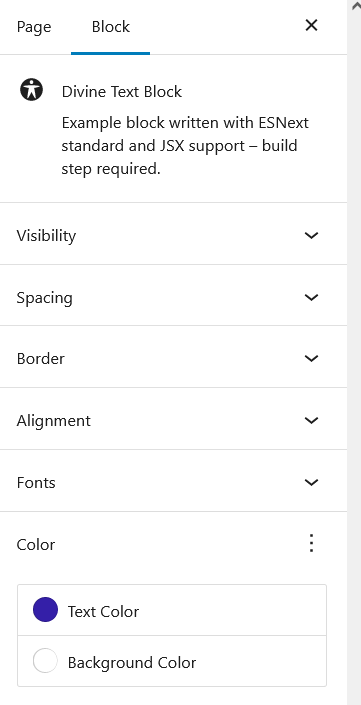
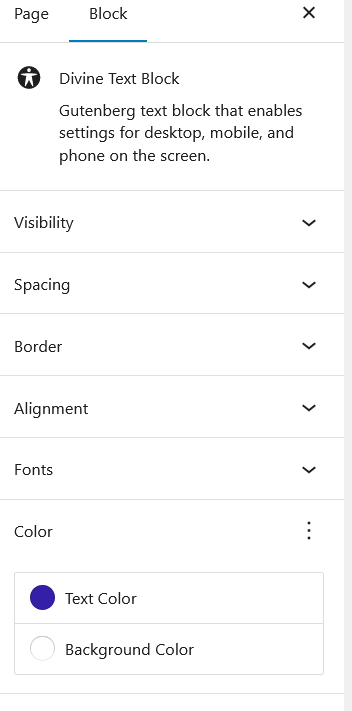
updated names, added screen shots
Updated description, author, names, added category for block

diff --git a/src/components/textBlock/index.js b/src/components/textBlock/index.js
@@ -76,17 +76,16 @@ registerBlockType("create-block/divinetextblock", {
       type: "array",
       default: ["left", "left", "left"],
     },
-	  OpacityStatus:{
-			type: "array",
-			default:[1,1,1]
-
-		},
+    OpacityStatus: {
+      type: "array",
+      default: [1, 1, 1],
+    },
     borderRadius: { type: "array", default: [3, 3, 3] },
     borderStyle: { type: "array", default: ["none", "none", "none"] },
     border_color: { type: "array", default: ["#000000", "#000000", "#000000"] },
   },
   title: "Divine Text Block",
-  category: "widgets",
+  category: "divine-categories",
   icon: "universal-access-alt",
   /**
    * @see ./edit.js

diff --git a/divineblocks.php b/divineblocks.php
@@ -1,11 +1,11 @@
 <?php
 /**
  * Plugin Name:       Divineblocks
- * Description:       Example block written with ESNext standard and JSX support – build step required.
+ * Description:       Gutenberg text block that enables settings for desktop, mobile, and phone on the screen..
  * Requires at least: 5.8
  * Requires PHP:      7.0
  * Version:           0.1.0
- * Author:            The WordPress Contributors
+ * Author:			  Ilene Johnson
  * License:           GPL-2.0-or-later
  * License URI:       https://www.gnu.org/licenses/gpl-2.0.html
  * Text Domain:       divineblocks
@@ -60,6 +60,12 @@ class Divine_Block_Class
     {
 
         register_block_type(__DIR__);
+
+        add_filter('block_categories_all', array($this, 'create_block_category'));
+
+
+
+
     }
 
 
@@ -72,7 +78,16 @@ class Divine_Block_Class
 
 
     }
+    public function create_block_category()
+    {
+        // Adding a new category.
+        $categories[] = array(
+            'slug'  => 'divine-categories',
+            'title' => 'Divine Category'
+        );
 
+        return $categories;
+    }
     public function make_the_css()
     {
         $this->divine_block_parse_block();

diff --git a/readme.md b/readme.md
@@ -1,0 +1,22 @@
+# Divine Blocks
+
+Divine Text Block permits a user to change the block settings for tablet and mobile on the screen rather than relying on a
+programmer to add these settings to a CSS file. The changes show on the edit screen.
+
+Most Gutenberg blocks only allow the settings for the desktop to be changed. And even if they enables
+changes to tablet and phone, these changes do not show on the edit screen.
+
+## Installation
+
+1. Upload the plugin files to the `/wp-content/plugins/divineblocks` directory, or install the plugin through the WordPress plugins screen directly.
+2. Activate the plugin through the 'Plugins' screen in WordPress
+
+## Usage
+
+Insert the block via Blocks listing under "Divine Category"
+
+![Insert Block](assets/screenshot-2.png)
+
+Place your cursor on the block and view the selections on the right side menu
+
+![Right Side Menu](assets/screenshot-1.png)
